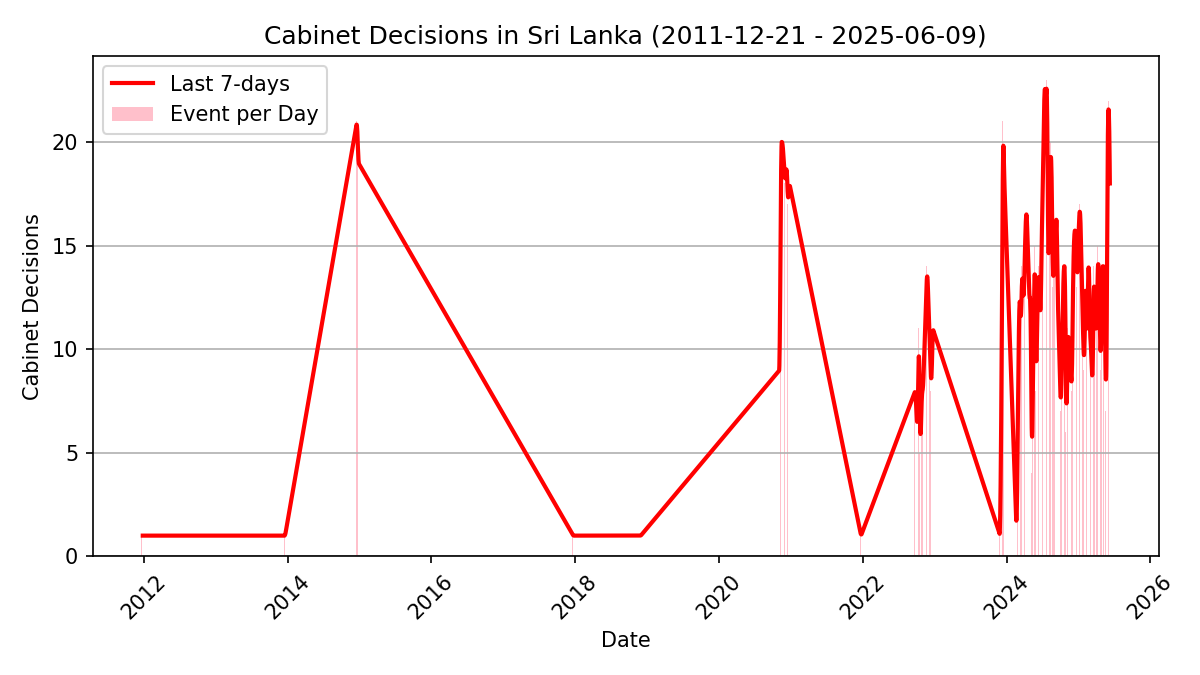
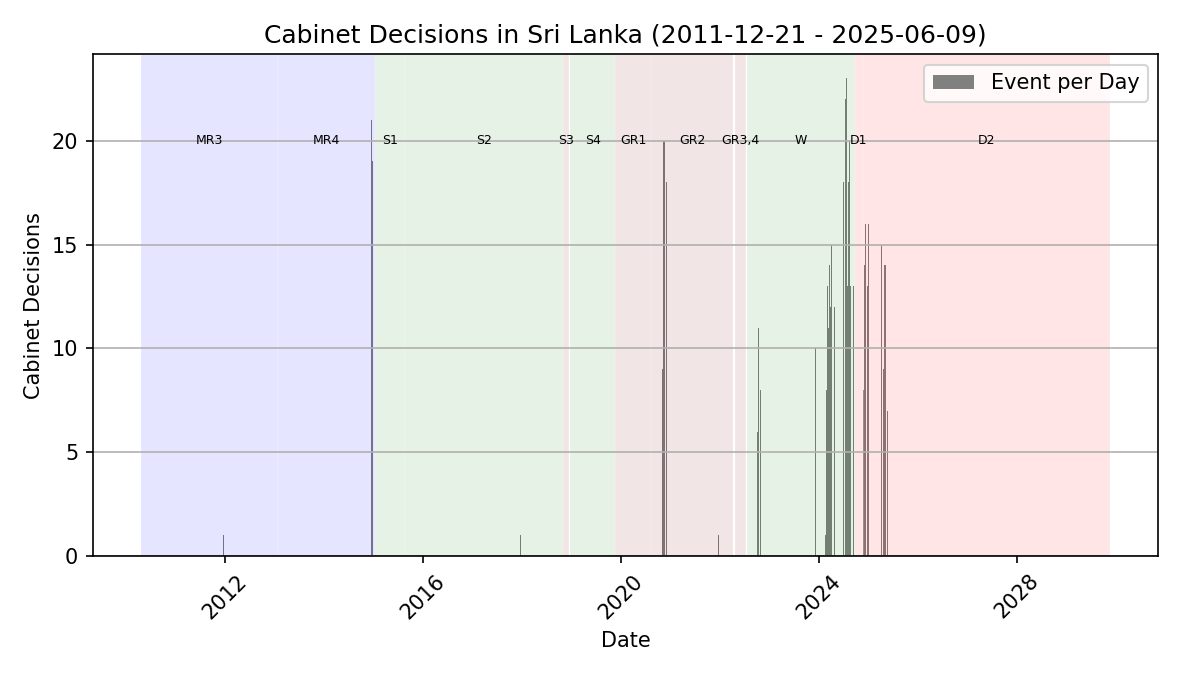
various

diff --git a/src/cabinet/pipeline/CabinetDecisionChart.py b/src/cabinet/pipeline/CabinetDecisionChart.py
@@ -25,8 +25,7 @@ class CabinetDecisionChart:
             date_to_n[date_str] += 1
         return date_to_n
 
-    def draw(self):
-        plt.close()
+    def __prepare_data__(self):
         date_to_n = self.date_to_n
         date_strs = sorted(list(date_to_n.keys()))
         dates = [datetime.strptime(d, "%Y-%m-%d") for d in date_to_n]
@@ -38,21 +37,19 @@ class CabinetDecisionChart:
         daily_series = series.reindex(full_index).interpolate(method="time")
         moving_avg = daily_series.rolling(window=7).mean()
 
+        return series, moving_avg, date_strs
+
+    def __draw_chart__(self):
+        series, _, date_strs = self.__prepare_data__()
         plt.figure(figsize=(8, 4.5))
         plt.bar(
             series.index,
             series.values,
             width=3,
-            color="pink",
+            color="grey",
             label="Event per Day",
         )
-        plt.plot(
-            moving_avg.index,
-            moving_avg.values,
-            linewidth=2,
-            label="Last 7-days",
-            color="red",
-        )
+
         plt.title(
             "Cabinet Decisions in Sri Lanka"
             + f" ({date_strs[0]} - {date_strs[-1]})"
@@ -63,6 +60,48 @@ class CabinetDecisionChart:
         plt.grid(True, axis="y")
         plt.legend()
         plt.tight_layout()
+
+    def __annotate_chart_single__(self, start_str, end_str, label, color):
+        ax = plt.gca()
+
+        start_date = datetime.strptime(start_str, "%Y-%m-%d")
+        end_date = datetime.strptime(end_str, "%Y-%m-%d")
+        mid_date = start_date + (end_date - start_date) / 2
+
+        ax.axvspan(
+            start_date,
+            end_date,
+            facecolor=color,
+            alpha=0.1,
+            edgecolor="white",
+            linewidth=1,
+        )
+        ax.text(mid_date, 20, label, ha="center", va="center", fontsize=6)
+
+    def __annotate_chart__(self):
+
+        periods = [
+            ("2010-04-23", "2013-01-28", "MR3", "blue"),
+            ("2013-01-28", "2015-01-09", "MR4", "blue"),
+            ("2015-01-12", "2015-08-17", "S1", "green"),
+            ("2015-08-24", "2018-10-26", "S2", "green"),
+            ("2018-10-29", "2018-12-15", "S3", "maroon"),
+            ("2018-12-20", "2019-11-21", "S4", "green"),
+            ("2019-11-21", "2020-08-12", "GR1", "maroon"),
+            ("2020-08-12", "2022-04-03", "GR2", "maroon"),
+            ("2022-04-18", "2022-07-14", "GR3,4", "maroon"),
+            ("2022-07-22", "2024-09-23", "W", "green"),
+            ("2024-09-24", "2024-11-18", "D1", "red"),
+            ("2024-11-18", "2029-11-18", "D2", "red"),
+        ]
+
+        for start_str, end_str, label, color in periods:
+            self.__annotate_chart_single__(start_str, end_str, label, color)
+
+    def draw(self):
+        plt.close()
+        self.__draw_chart__()
+        self.__annotate_chart__()
         plt.savefig(self.IMAGE_PATH, dpi=150)
         plt.close()
         log.info(f"Wrote {self.IMAGE_PATH}")
